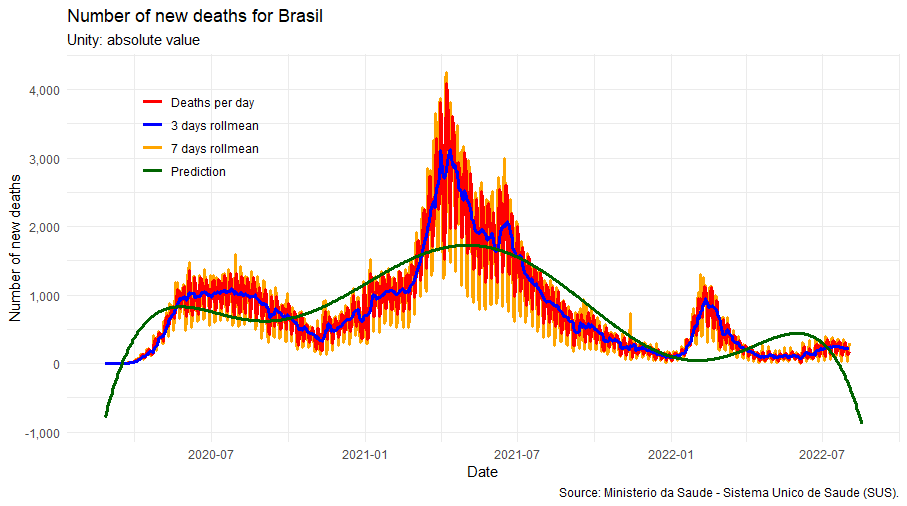
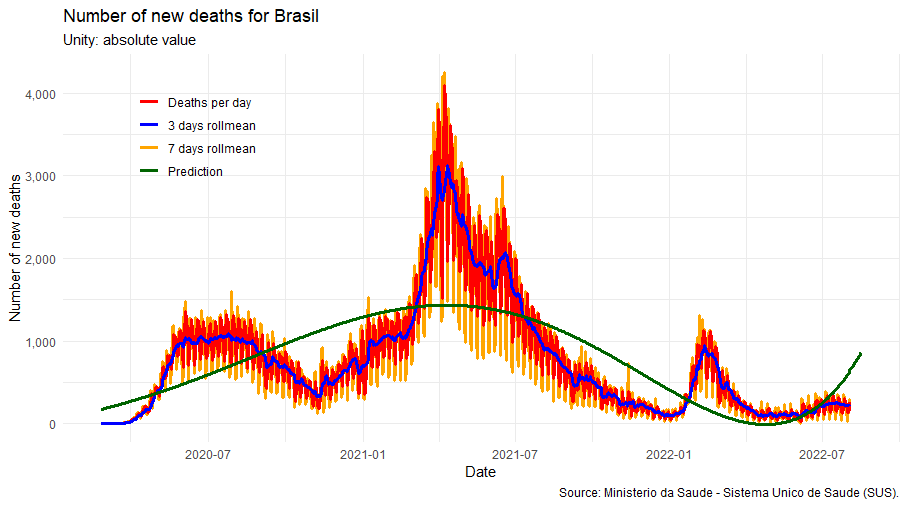
Update README file

diff --git a/README.md b/README.md
@@ -204,7 +204,7 @@ plot_ly(data = brazil_total,
 
 The graph below presents the data for the number of daily new Covid-19
 cases for Brazil, a 3-day moving average, a 7-day moving average and the
-forecast, obtained by polynomial interpolation of degree 6, covering the
+forecast, obtained by polynomial interpolation of degree 5, covering the
 entire period plus 15 days.
 
 <img src="man/figures/predCases.png" width="100%" />  
@@ -236,6 +236,6 @@ p <- plot_ly(data = brazil_total,
 The next graph presents the data for the number of new daily deaths
 caused by Covid-19 for Brazil, a 3-day moving average, a 7-day moving
 average and the forecast, obtained by polynomial interpolation of degree
-6, covering the entire period plus 15 days.
+5, covering the entire period plus 15 days.
 
 <img src="man/figures/predDeaths.png" width="100%" />
